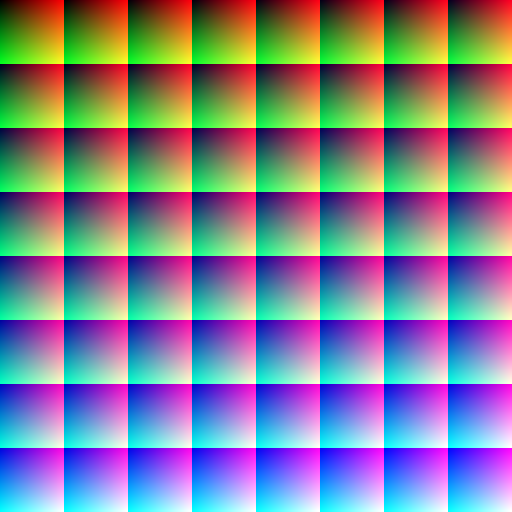
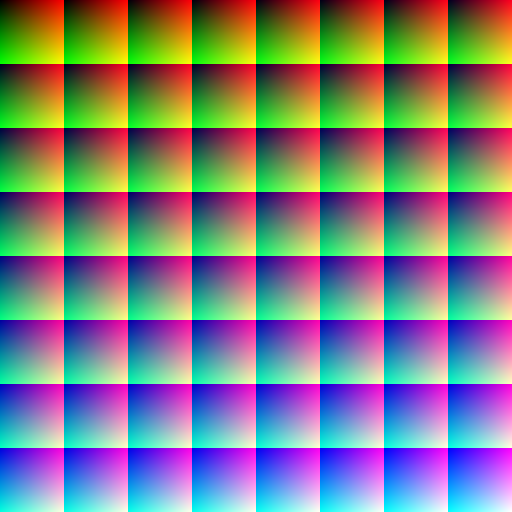
Update Boost, enable /utf-8, fix Texture mem
Bump Boost include paths from boost-1_86 to boost-1_87 in RawGL.vcxproj (Debug and Release). Add /utf-8 to ClCompile AdditionalOptions to enforce UTF-8 source handling. Fix Texture.cpp by removing a redundant bytes assignment for unsigned byte case and correcting mem_size computation by casting each operand to size_t before multiplication to prevent integer overflow. Update EmptyLUT.png asset.

diff --git a/SRC/RawGL/src/intern/Texture.cpp b/SRC/RawGL/src/intern/Texture.cpp
@@ -134,7 +134,6 @@ Texture::Texture(GLsizei width, GLsizei height, GLenum internalFormat, GLenum ty
     {
     case GL_BYTE:
     case GL_UNSIGNED_BYTE:  //OIIO::TypeDesc::UINT8:
-        bytes = 1;
         break;
 	case GL_SHORT:
     case GL_UNSIGNED_SHORT: //OIIO::TypeDesc::UINT16:
@@ -196,7 +195,7 @@ void* Texture::getData(GLenum type) const
 
 	// malloc requred size_t (unsinged int) so we need to cast to that.
 	// othwise we have int overflow for large textures.
-    std::size_t mem_size = (std::size_t)m_width * (std::size_t)m_height * (std::size_t)(m_channels * bytes);
+    std::size_t mem_size = (std::size_t)m_width * (std::size_t)m_height * (std::size_t)(m_channels) * (std::size_t)(bytes);
     void* data = malloc(mem_size);
 
     //glGenerateTextureMipmap(m_id); // NOTE: OpenGL 4.5+